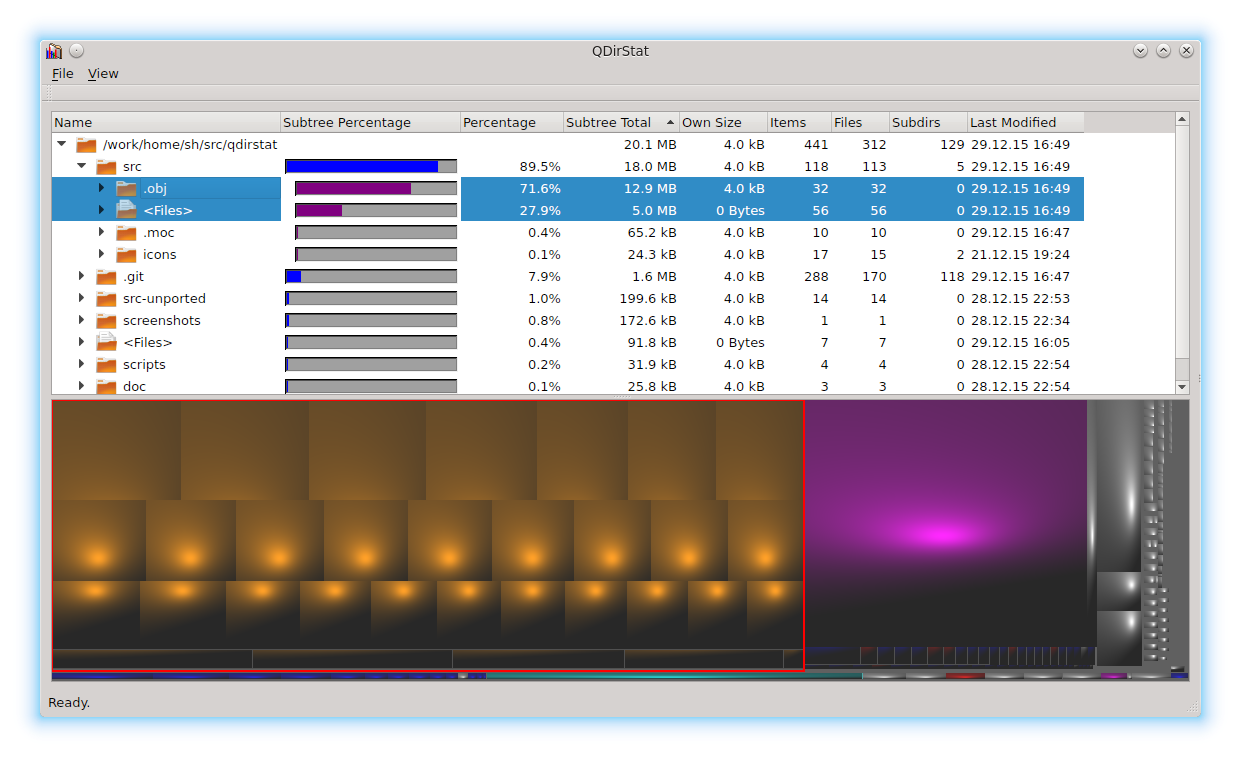
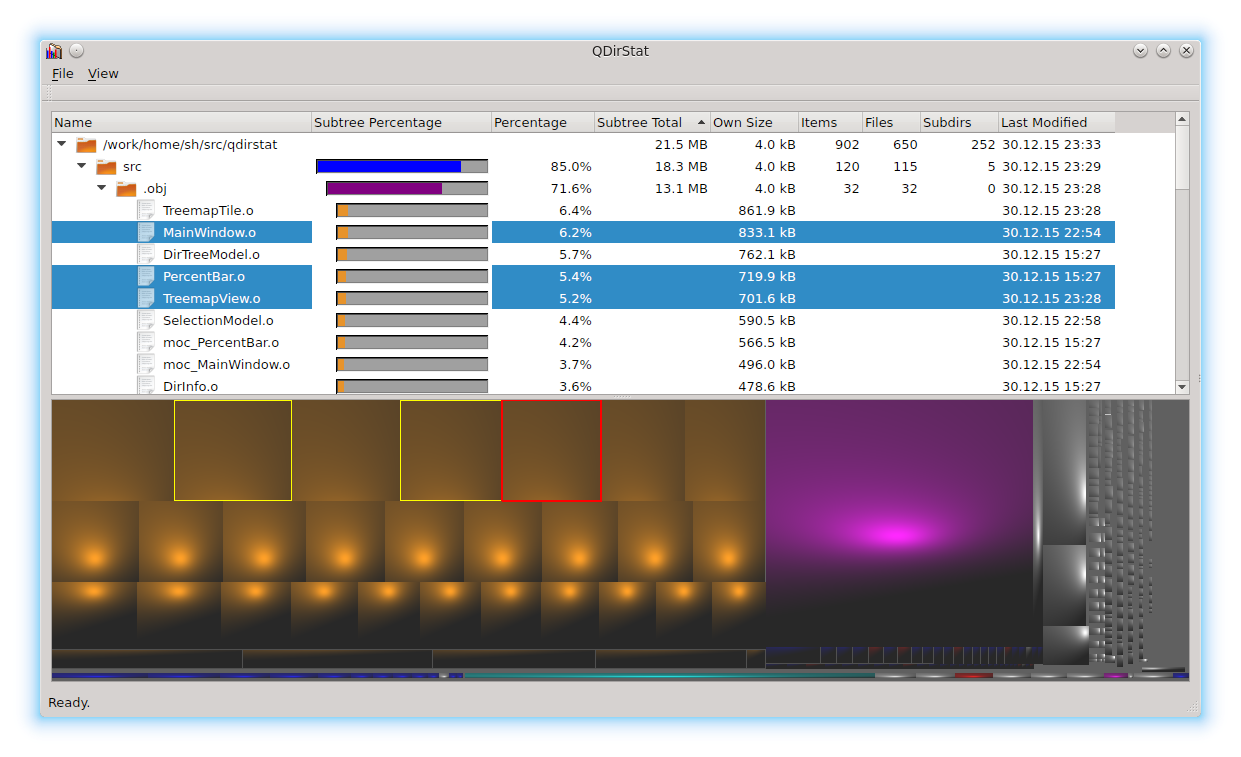
Updated status and screenshot

Changed region(s): [[0.0612, 0.1519, 0.9492, 0.9115], [0.0306, 0.2127, 0.2756, 0.5469], [0.1225, 0.638, 0.1531, 0.6684]]

diff --git a/README.md b/README.md
@@ -7,7 +7,7 @@ Target Platforms: Linux, BSD, Unix-like systems
 
 License: GPL V2
 
-Updated: 2015-12-29
+Updated: 2015-12-30
 
 
 ## Overview
@@ -29,6 +29,11 @@ _Preview 2015-12-28 -- see also section "Development Status" below_
 
 Usable, but still pre-Alpha. Use at your own risk. You have been warned. ;-)
 
+- 2015-12-30  Treemap rendering now works as expected, and selecting items
+              (including multi-selection with shift-click and ctrl-click in the
+              tree view and ctrl-click in the treemap view) works. It was a bit
+              of a challenge to avoid Qt signal ping-pong between the selection
+              model object and the two views.
 
 - 2015-12-28  Treemaps are back. It's not perfect yet, but the basic rendering
               works.  I admit I was somewhat scared of that part, but the
